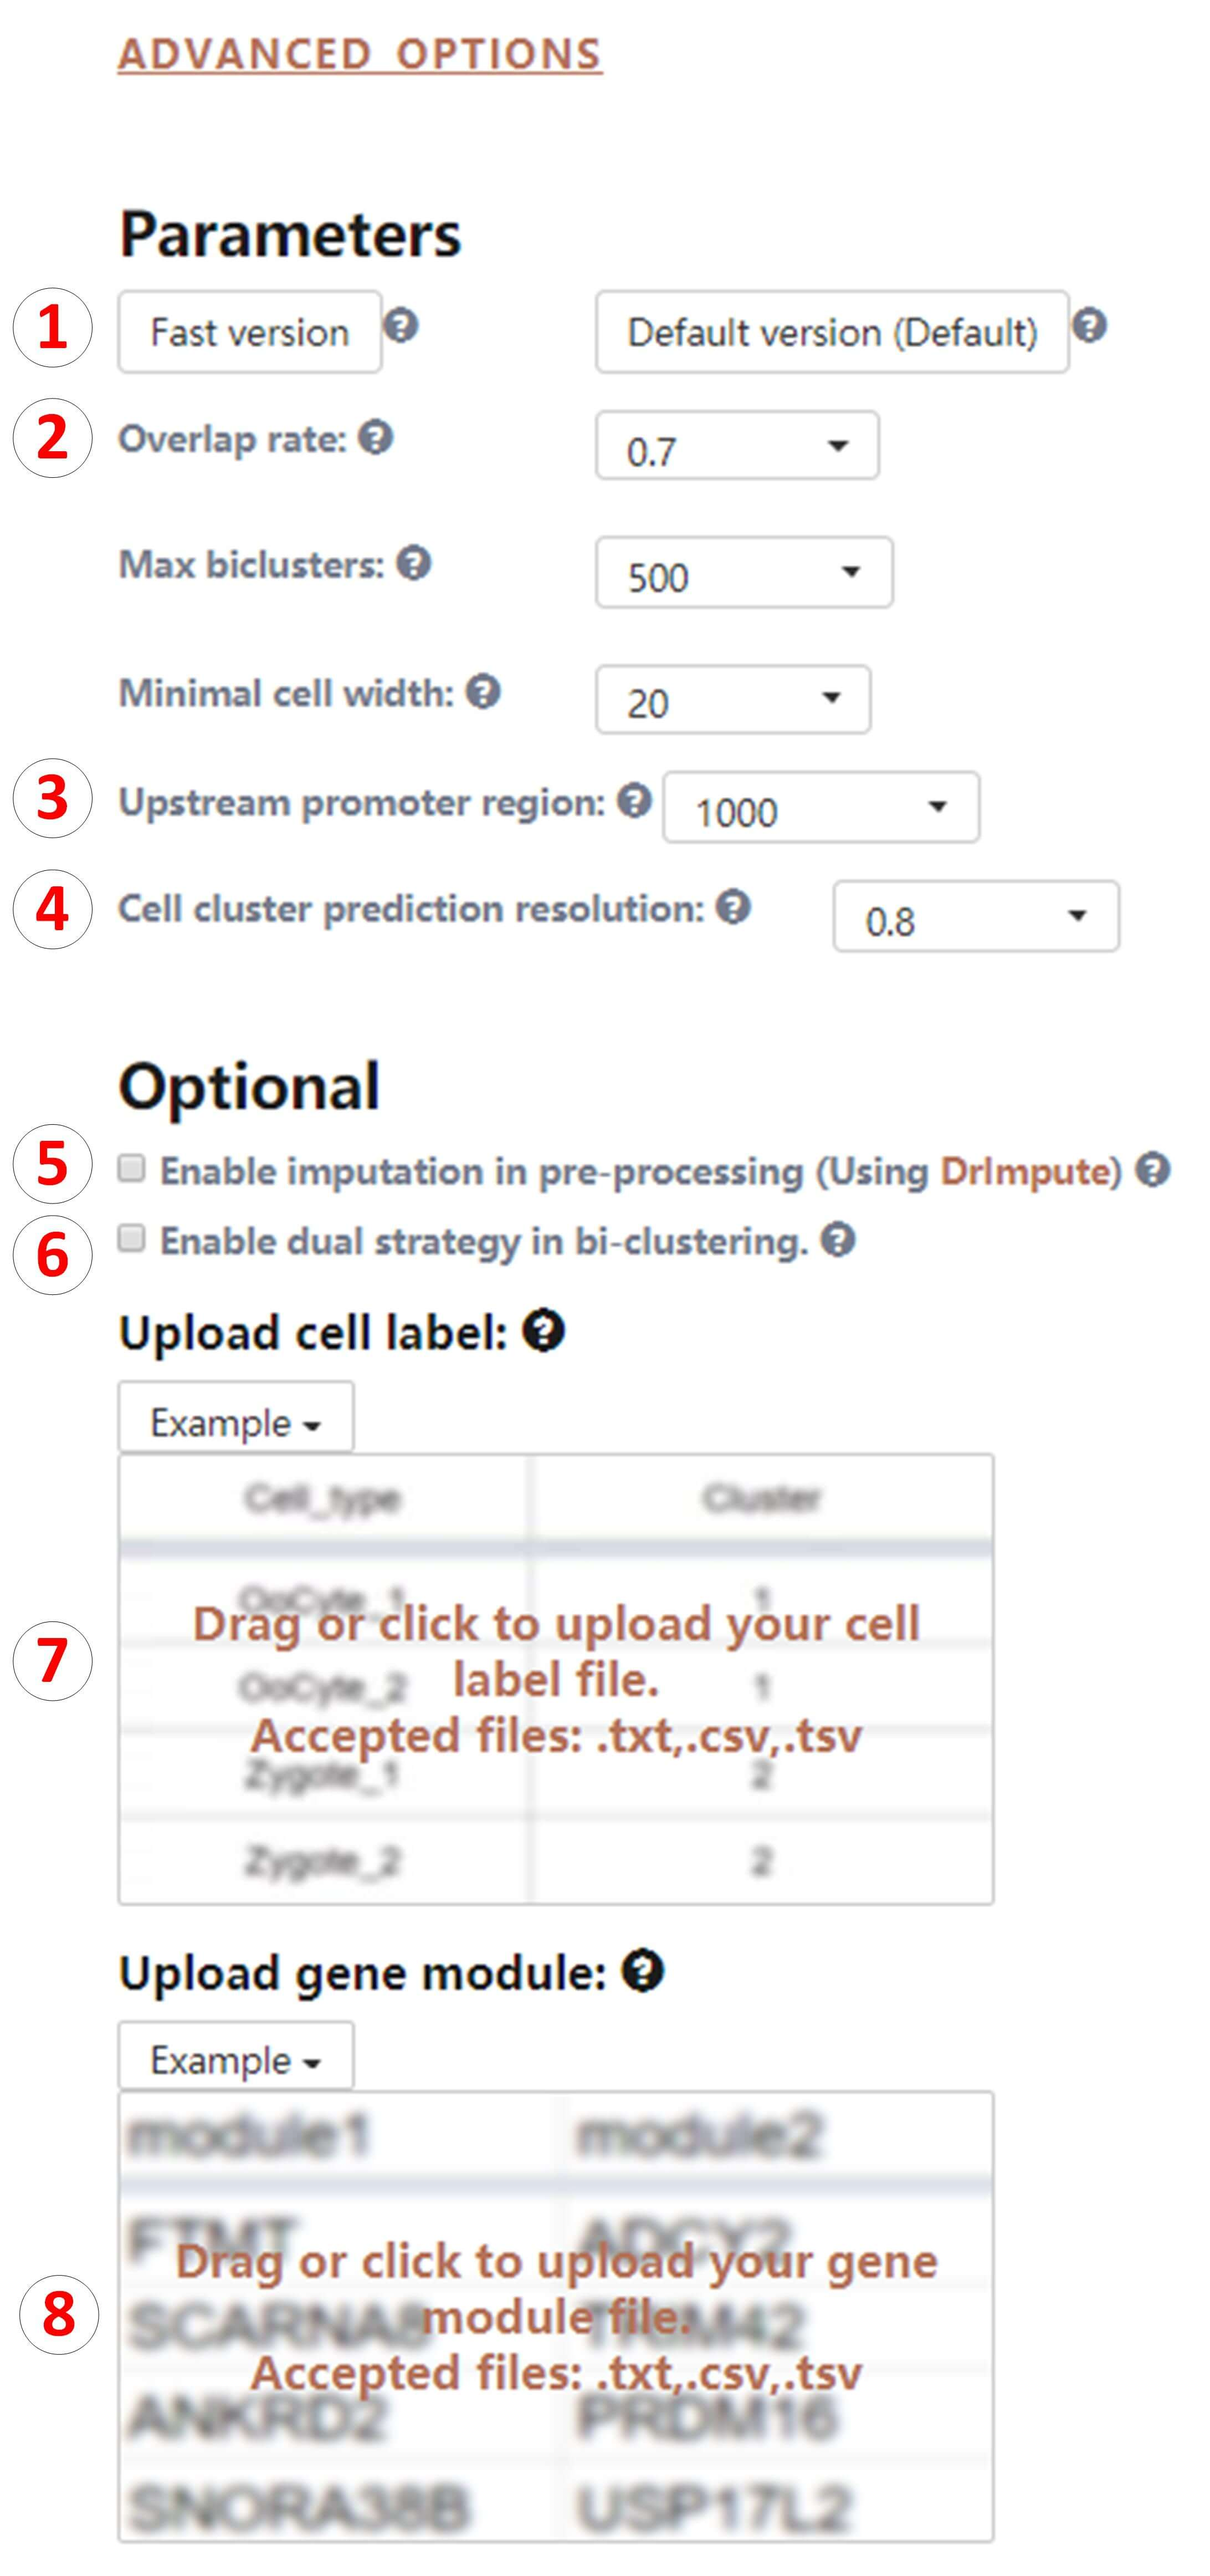
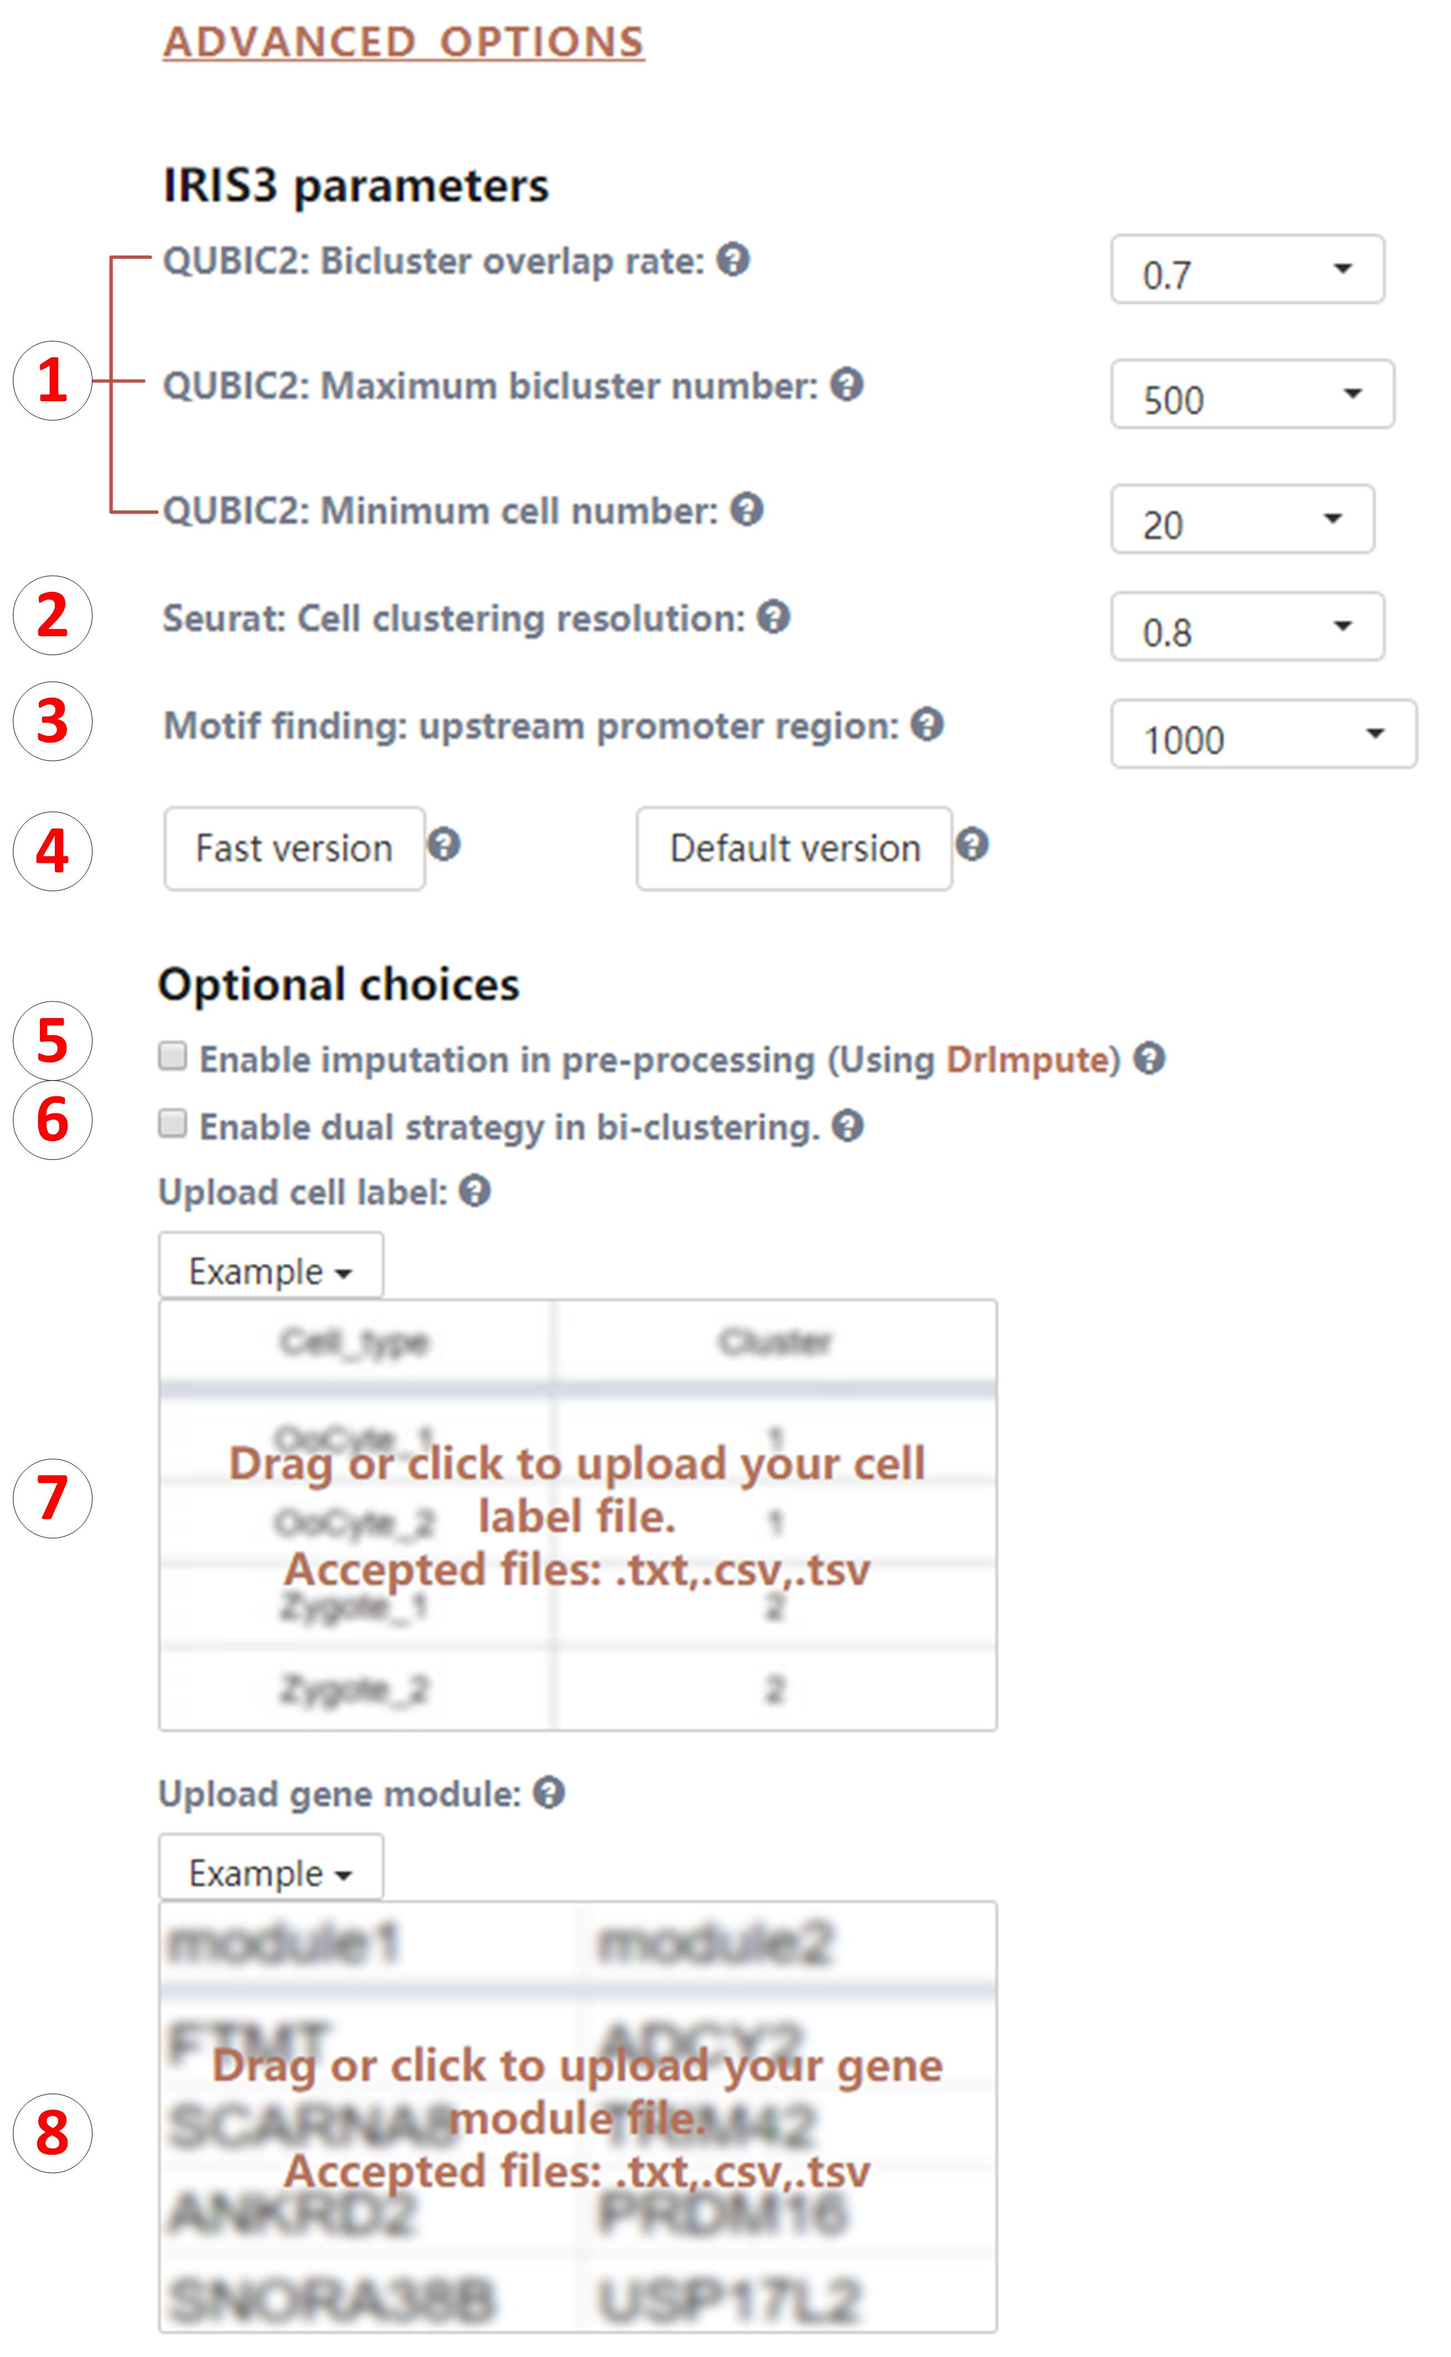
update log news

diff --git a/web/templates/tutorial/2log-content.html b/web/templates/tutorial/2log-content.html
@@ -11,6 +11,63 @@
         <div class="qa">
             <h3 class="question">Added features</h3>
             <div class="answer">
+			<p>Sat Feb 29 21:47:50 2020</p><p> update tutorial and FAQ                               </p>
+<p>Sat Feb 29 21:47:37 2020</p><p> Add hint info for empty regulons                      </p>
+<p>Sat Feb 29 21:47:07 2020</p><p> New submit page layout                                </p>
+<p>Sat Feb 29 20:49:00 2020</p><p> Fix: changed CT-R name finding TADs                   </p>
+<p>Sat Feb 29 15:49:34 2020</p><p> update sumit page layout                              </p>
+<p>Sat Feb 29 15:49:20 2020</p><p> add high charts                                       </p>
+<p>Sat Feb 29 15:49:13 2020</p><p> update home layout                                    </p>
+<p>Sat Feb 29 11:39:18 2020</p><p> Fix predict label umap                                </p>
+<p>Sat Feb 29 00:19:33 2020</p><p> fix parameter cannot be string format                 </p>
+<p>Sat Feb 29 00:19:17 2020</p><p> fix marker gene sorting error                         </p>
+<p>Sat Feb 29 00:19:01 2020</p><p> update menu color                                     </p>
+<p>Sat Feb 29 00:18:54 2020</p><p> fix CT-R name                                         </p>
+<p>Sat Feb 29 00:18:41 2020</p><p> update module file                                    </p>
+<p>Fri Feb 28 17:33:16 2020</p><p> update CT-R name                                      </p>
+<p>Fri Feb 28 17:33:00 2020</p><p> fix color mapping                                     </p>
+<p>Fri Feb 28 16:40:05 2020</p><p> update email year                                     </p>
+<p>Fri Feb 28 16:33:32 2020</p><p> rename CTS-R                                          </p>
+<p>Fri Feb 28 16:32:53 2020</p><p> Merge branch 'update_plot_method'                     </p>
+<p>Fri Feb 28 16:32:11 2020</p><p> update                                                </p>
+<p>Fri Feb 28 15:24:01 2020</p><p> add highcharts.js                                     </p>
+<p>Fri Feb 28 00:21:56 2020</p><p> -pdate: color key on trajectory                       </p>
+<p>Thu Feb 27 23:59:45 2020</p><p> -pdate:plot regulon and trajectory method niubility.  </p>
+<p>Thu Feb 27 22:53:55 2020</p><p> move general information                              </p>
+<p>Thu Feb 27 21:21:20 2020</p><p> iteration set to 1000 if file size too large          </p>
+<p>Thu Feb 27 21:21:01 2020</p><p> update submit page layout                             </p>
+<p>Thu Feb 27 21:20:52 2020</p><p> update submit page image                              </p>
+<p>Thu Feb 27 15:37:59 2020</p><p> prettier format                                       </p>
+<p>Thu Feb 27 15:17:58 2020</p><p> sync server submit page version                       </p>
+<p>Thu Feb 27 15:17:39 2020</p><p> fix server name                                       </p>
+<p>Thu Feb 27 15:17:24 2020</p><p> update home page                                      </p>
+<p>Thu Feb 27 15:17:13 2020</p><p> add default umap plot when errors                     </p>
+<p>Thu Feb 27 15:15:30 2020</p><p> update home page layout and colors                    </p>
+<p>Wed Feb 19 16:14:42 2020</p><p> add default trajectory plot image                     </p>
+<p>Wed Feb 19 16:14:29 2020</p><p> fix loading qubic2 params                             </p>
+<p>Wed Feb 19 16:04:38 2020</p><p> Remove unused variables                               </p>
+<p>Wed Jan 29 16:46:51 2020</p><p> Merge remote-tracking branch 'origin/master'          </p>
+<p>Wed Jan 29 16:46:48 2020</p><p> Update: display trajectory plot on seurat cluster     </p>
+<p>Wed Dec 18 22:37:53 2019</p><p> Fix: empty custom module                              </p>
+<p>Wed Dec 18 13:38:45 2019</p><p> Fix: empty variable                                   </p>
+<p>Wed Dec 18 13:38:12 2019</p><p> Fix: number of cells result                           </p>
+<p>Wed Dec 18 13:37:42 2019</p><p> Fix: download pdf plot                                </p>
+<p>Wed Dec 18 13:36:55 2019</p><p> Fix: sankey plot color                                </p>
+<p>Mon Dec 16 16:17:26 2019</p><p> Add: loading result page                              </p>
+<p>Mon Dec 16 09:30:27 2019</p><p> Fix: optimized preview expression table               </p>
+<p>Mon Dec 16 09:30:02 2019</p><p> Fix: display species on loading result page           </p>
+<p>Mon Dec 16 09:29:43 2019</p><p> Fix: include global variable                          </p>
+<p>Sat Dec 14 01:30:12 2019</p><p> Fix: normalization and cluster on very small dataset  </p>
+<p>Sat Dec 14 01:29:40 2019</p><p> Fix: typo                                             </p>
+<p>Wed Dec 11 17:07:49 2019</p><p> Add: generate tomtom result file in pipeline          </p>
+<p>Tue Dec 10 16:42:18 2019</p><p> Update README.md                                      </p>
+<p>Tue Dec 10 16:41:47 2019</p><p> Fix: working directory path                           </p>
+<p>Tue Dec 10 16:41:19 2019</p><p> Update: email notification content                    </p>
+<p>Tue Dec 10 16:41:03 2019</p><p> Update: README links                                  </p>
+<p>Tue Dec 10 16:40:51 2019</p><p> Remove unused asset                                   </p>
+<p>Fri Dec 6 15:51:10 2019 </p><p> init                                                  </p>
+<p>Fri Dec 6 15:14:48 2019 </p><p> Initial commit                                        </p>
+
                 <p>Thu Nov 7 15:22:12 2019 </p>
                 <p>Add: Recommend fast version</p>
                 <p>Thu Nov 7 11:01:17 2019 </p>

diff --git a/web/templates/tutorial/2submission-content.html b/web/templates/tutorial/2submission-content.html
@@ -37,11 +37,11 @@
             <div class="answer">
                 <img src="./assets/img/tutorial/2.4advance.jpg">
                 <br>
-                <p><b>1.</b> Quick selecting a recommended parameter, either a set of parameters with less running time or using default parameters but longer running time. </p>
-                <p><b>2.</b> Control the output biclusters from QUBIC. Details can be found here.</p>
-                <p><b>3.</b> The upstream promoter region is open to users to decide the region for motif finding.  Wider range may cause require longer computational time. Default: 1000 bp.
+				<p><b>1.</b> Control the output biclusters from QUBIC. Details can be <a href="https://bmbl.bmi.osumc.edu/iris3/more.php#4FAQ&amp;q=2" target="_blank">found here.</a></p>
+				<p><b>2.</b>Resolution for clustering in Seurat (form 0-1). A larger number will generate more clusters and a smaller number will generate fewer clusters. Default: 0.8.</p>
+				<p><b>3.</b> The upstream promoter region is open to users to decide the region for motif finding.  Wider range may cause require longer computational time. Default: 1000 bp.
                 </p>
-                <p><b>4.</b>Resolution for clustering in Seurat (form 0-1). A larger number will generate more clusters and a smaller number will generate fewer clusters. Default: 0.8.</p>
+                <p><b>4.</b> Quick selecting a recommended parameter, either a set of parameters with less running time or using default parameters but longer running time. </p>
                 <p><b>5.</b> Enable imputation step using DrImpute with all default parameters in the pre-processing step. Default: disabled.</p>
                 <p><b>6.</b> Enable dual strategy for QUBIC2 biclustering optimization. Time-consuming. Not recommended for 10X data. Default: disabled.</p>
                 <p><b>7.</b> Provide cell labels for CTSR identification. This file contains two columns: cell names and cell labels. Regulons will be predicted based on the provided cell labels. </p>
